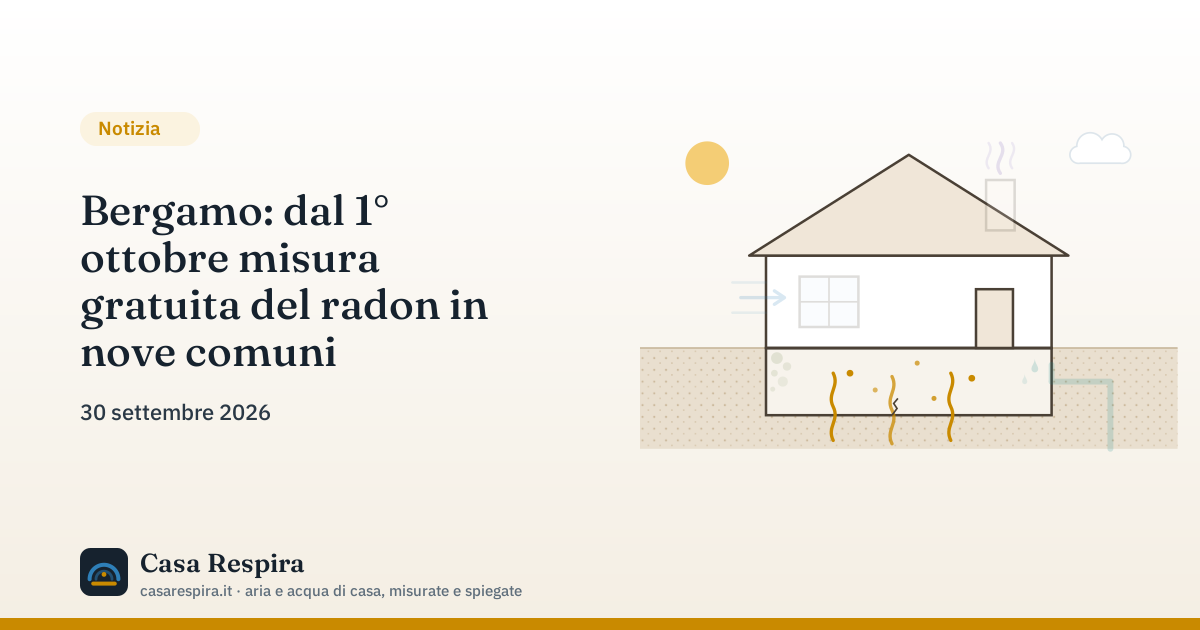
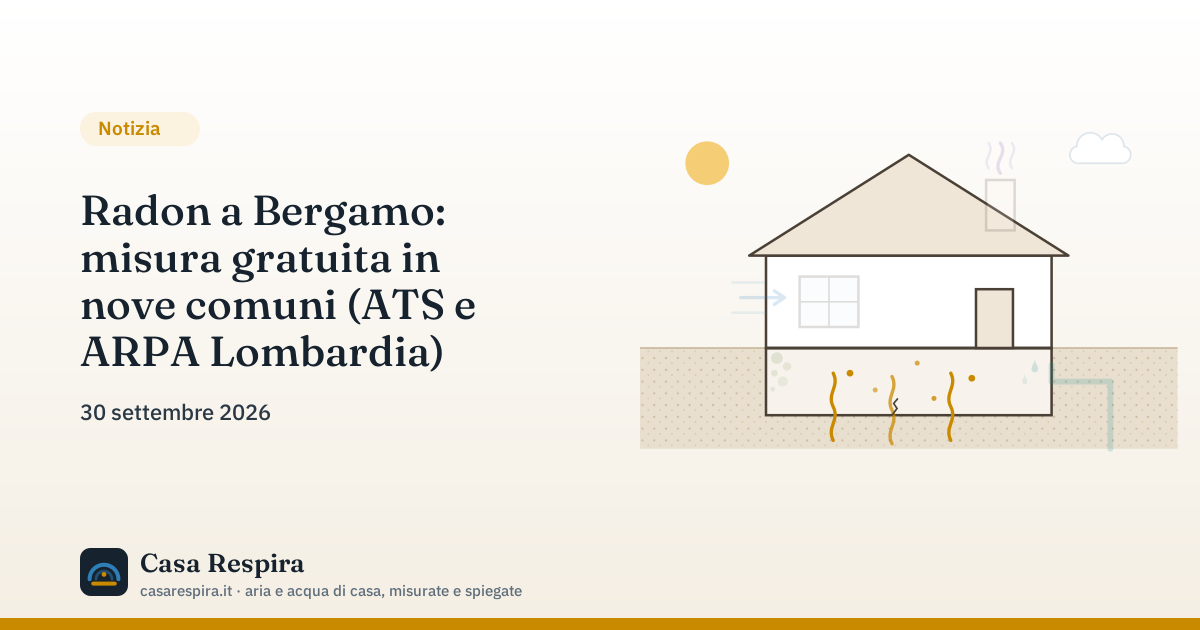
Titoli e descrizioni più brevi e mirati per le pagine con impressioni e zero clic
Claude-Session: https://claude.ai/code/session_01CHqPZx1XaQabLMaa3mBbNP

Changed region(s): [[0.0617, 0.3016, 0.4317, 0.6032]]

diff --git a/index.html b/index.html
@@ -105,7 +105,7 @@
 </section>
 <section class="wrap guide">
 <h2>Le guide sul radon</h2>
-<ul class="lista-guide"><li><a href="/radon/guida-completa/"><strong>Radon in casa: la guida completa</strong><span>Cos&#x27;è il radon, quali livelli di riferimento valgono in Italia, come si misura e come si riduce.</span></a></li><li><a href="/radon/come-si-misura/"><strong>Come si misura il radon in casa</strong><span>Perché serve una misura di lunga durata, come leggerla e cosa considerare nella scelta dello strumento.</span></a></li><li><a href="/radon/normativa/"><strong>Radon: cosa dice la legge per abitazioni e luoghi di lavoro</strong><span>Il D.Lgs. 101/2020, i livelli di riferimento, le aree prioritarie e gli obblighi per i luoghi di lavoro.</span></a></li><li><a href="/radon/lombardia/"><strong>Radon in Lombardia: aree prioritarie e misure</strong><span>Dove si concentra il rischio radon in Lombardia, come sono state individuate le aree prioritarie e cosa fare.</span></a></li><li><a href="/radon/vespaio-aerato/"><strong>Vespaio aerato: cos&#x27;è, come è fatto e perché protegge da radon e umidità</strong><span>Com&#x27;è fatto un vespaio aerato (igloo, soletta, bocchette, membrana), come funziona la ventilazione, cosa dicono ISPRA e le linee guida regionali sul radon, e quando non basta.</span></a></li><li><a href="/radon/rilevatori/"><strong>I migliori rilevatori di radon per la casa: confronto 2026 con prezzi</strong><span>Dosimetri passivi da laboratorio o rilevatori elettronici: Airthings Corentium Home 2, Wave Radon, RadonEye RD200 e kit CR-39 a confronto, con prezzi verificati a novembre 2026 e quale scegliere a seconda dell&#x27;uso.</span></a></li></ul>
+<ul class="lista-guide"><li><a href="/radon/guida-completa/"><strong>Radon in casa: la guida completa</strong><span>Cos&#x27;è il radon, quali livelli di riferimento valgono in Italia, come si misura e come si riduce.</span></a></li><li><a href="/radon/come-si-misura/"><strong>Come si misura il radon in casa</strong><span>Perché serve una misura di lunga durata, come leggerla e cosa considerare nella scelta dello strumento.</span></a></li><li><a href="/radon/normativa/"><strong>Radon, la legge italiana: D.Lgs. 101/2020 per casa e lavoro</strong><span>Livelli di riferimento, aree prioritarie e obblighi per abitazioni e luoghi di lavoro, con i riferimenti ufficiali (D.Lgs. 101/2020).</span></a></li><li><a href="/radon/lombardia/"><strong>Radon in Lombardia: aree prioritarie e misure</strong><span>Dove si concentra il rischio radon in Lombardia, come sono state individuate le aree prioritarie e cosa fare.</span></a></li><li><a href="/radon/vespaio-aerato/"><strong>Vespaio aerato: come è fatto e se protegge da radon</strong><span>Igloo, soletta, bocchette e membrana: come è fatto un vespaio aerato, come funziona contro radon e umidità, e quando non basta da solo.</span></a></li><li><a href="/radon/rilevatori/"><strong>I migliori rilevatori di radon per la casa: confronto 2026 con prezzi</strong><span>Dosimetri passivi da laboratorio o rilevatori elettronici: Airthings Corentium Home 2, Wave Radon, RadonEye RD200 e kit CR-39 a confronto, con prezzi verificati a novembre 2026 e quale scegliere a seconda dell&#x27;uso.</span></a></li></ul>
 </section>
 <section class="wrap temi">
 <h2>Gli altri temi</h2>
@@ -114,7 +114,7 @@
 </section>
 <section class="wrap ultime">
 <h2>Ultime notizie</h2>
-<ul class="lista-news compatta"><li><time datetime="2026-11-06">6 novembre 2026</time><a href="/news/pfas-liguria-borgio-verezzi-novembre-2026/">PFAS nell&#x27;acqua in Liguria: a Borgio Verezzi e Pietra Ligure si lavora ai filtri a carboni attivi</a></li><li><time datetime="2026-09-30">30 settembre 2026</time><a href="/news/bergamo-campagna-radon-ottobre-2026/">Bergamo: dal 1° ottobre misura gratuita del radon in nove comuni</a></li><li><time datetime="2026-07-22">22 luglio 2026</time><a href="/news/aree-prioritarie-italia-luglio-2026/">Aree prioritarie radon: a luglio 2026 il punto Regione per Regione</a></li></ul>
+<ul class="lista-news compatta"><li><time datetime="2026-11-06">6 novembre 2026</time><a href="/news/pfas-liguria-borgio-verezzi-novembre-2026/">PFAS in Liguria: filtri a carboni attivi a Borgio Verezzi e Pietra Ligure</a></li><li><time datetime="2026-09-30">30 settembre 2026</time><a href="/news/bergamo-campagna-radon-ottobre-2026/">Radon a Bergamo: misura gratuita in nove comuni (ATS e ARPA Lombardia)</a></li><li><time datetime="2026-07-22">22 luglio 2026</time><a href="/news/aree-prioritarie-italia-luglio-2026/">Aree prioritarie radon: a luglio 2026 il punto Regione per Regione</a></li></ul>
 <p><a href="/news/">Tutte le notizie</a></p>
 </section>
 <section class="wrap metodo">

diff --git a/news/index.html b/news/index.html
@@ -35,7 +35,7 @@
 <article class="testo sezione">
 <h1>News</h1>
 <p class="lead">Notizie brevi su radon, aria e acqua di casa: campagne di misura gratuite, nuove aree prioritarie, norme. Ogni notizia ha la fonte istituzionale con link e data, e dice cosa cambia per chi legge.</p>
-<ul class="lista-news"><li><time datetime="2026-11-06">6 novembre 2026</time><a href="/news/pfas-liguria-borgio-verezzi-novembre-2026/">PFAS nell&#x27;acqua in Liguria: a Borgio Verezzi e Pietra Ligure si lavora ai filtri a carboni attivi</a><p>Chi vive nei due Comuni deve seguire le ordinanze comunali e le comunicazioni del gestore sull&#x27;uso dell&#x27;acqua. Per tutti gli altri, il caso mostra come funziona la nuova norma: dal 2026 i PFAS sono un parametro di legge e, se superano il limite, il gestore deve intervenire. Cosa sono e come leggere i dati del proprio comune è spiegato nella guida ai PFAS nell&#x27;acqua.</p></li><li><time datetime="2026-09-30">30 settembre 2026</time><a href="/news/bergamo-campagna-radon-ottobre-2026/">Bergamo: dal 1° ottobre misura gratuita del radon in nove comuni</a><p>Se abiti in uno dei comuni coinvolti, è l&#x27;occasione per una misura di qualità senza spesa. L&#x27;elenco dei comuni e il modulo di adesione sono sul sito di ATS Bergamo.</p></li><li><time datetime="2026-07-22">22 luglio 2026</time><a href="/news/aree-prioritarie-italia-luglio-2026/">Aree prioritarie radon: a luglio 2026 il punto Regione per Regione</a><p>Essere in area prioritaria non significa che ogni casa superi i 300 Bq/m³, e fuori da quelle aree il radon può comunque essere alto. Per i datori di lavoro con locali al piano terra, in area prioritaria scatta l&#x27;obbligo di misura.</p></li><li><time datetime="2026-05-15">15 maggio 2026</time><a href="/news/trentino-misure-gratuite-maggio-2026/">Trentino: approvate le aree prioritarie e aperta la misura gratuita per tutti i cittadini</a><p>Chi vive in Trentino può candidarsi con un modulo online sul sito di APPA. Il ritiro e la riconsegna dei dosimetri, a Trento, sono a carico del cittadino.</p></li></ul>
+<ul class="lista-news"><li><time datetime="2026-11-06">6 novembre 2026</time><a href="/news/pfas-liguria-borgio-verezzi-novembre-2026/">PFAS in Liguria: filtri a carboni attivi a Borgio Verezzi e Pietra Ligure</a><p>Chi vive nei due Comuni deve seguire le ordinanze comunali e le comunicazioni del gestore sull&#x27;uso dell&#x27;acqua. Per tutti gli altri, il caso mostra come funziona la nuova norma: dal 2026 i PFAS sono un parametro di legge e, se superano il limite, il gestore deve intervenire. Cosa sono e come leggere i dati del proprio comune è spiegato nella guida ai PFAS nell&#x27;acqua.</p></li><li><time datetime="2026-09-30">30 settembre 2026</time><a href="/news/bergamo-campagna-radon-ottobre-2026/">Radon a Bergamo: misura gratuita in nove comuni (ATS e ARPA Lombardia)</a><p>Se abiti in uno dei comuni coinvolti, è l&#x27;occasione per una misura di qualità senza spesa. L&#x27;elenco dei comuni e il modulo di adesione sono sul sito di ATS Bergamo.</p></li><li><time datetime="2026-07-22">22 luglio 2026</time><a href="/news/aree-prioritarie-italia-luglio-2026/">Aree prioritarie radon: a luglio 2026 il punto Regione per Regione</a><p>Essere in area prioritaria non significa che ogni casa superi i 300 Bq/m³, e fuori da quelle aree il radon può comunque essere alto. Per i datori di lavoro con locali al piano terra, in area prioritaria scatta l&#x27;obbligo di misura.</p></li><li><time datetime="2026-05-15">15 maggio 2026</time><a href="/news/trentino-misure-gratuite-maggio-2026/">Trentino: approvate le aree prioritarie e aperta la misura gratuita per tutti i cittadini</a><p>Chi vive in Trentino può candidarsi con un modulo online sul sito di APPA. Il ritiro e la riconsegna dei dosimetri, a Trento, sono a carico del cittadino.</p></li></ul>
 <p class="nota">Le notizie escono anche nel <a href="/feed.xml">feed RSS</a>.</p>
 </article>
 </main>

diff --git a/radon/normativa/index.html b/radon/normativa/index.html
@@ -9,15 +9,15 @@
 <link rel="stylesheet" href="/assets/site-f2919fca.css">
 <link rel="icon" href="/assets/favicon.svg" type="image/svg+xml">
 <link rel="apple-touch-icon" href="/assets/logo-192.png">
-<title>Radon: cosa dice la legge per abitazioni e luoghi di lavoro | Casa Respira</title>
-<meta name="description" content="Il D.Lgs. 101/2020, i livelli di riferimento, le aree prioritarie e gli obblighi per i luoghi di lavoro.">
+<title>Radon, la legge italiana: D.Lgs. 101/2020 per casa e lavoro | Casa Respira</title>
+<meta name="description" content="Livelli di riferimento, aree prioritarie e obblighi per abitazioni e luoghi di lavoro, con i riferimenti ufficiali (D.Lgs. 101/2020).">
 <link rel="canonical" href="https://casarespira.it/radon/normativa/">
 <link rel="alternate" hreflang="en" href="https://casarespira.it/en/property-due-diligence/">
 <link rel="alternate" hreflang="it" href="https://casarespira.it/radon/normativa/">
 <meta property="og:type" content="website">
 <meta property="og:site_name" content="Casa Respira">
-<meta property="og:title" content="Radon: cosa dice la legge per abitazioni e luoghi di lavoro">
-<meta property="og:description" content="Il D.Lgs. 101/2020, i livelli di riferimento, le aree prioritarie e gli obblighi per i luoghi di lavoro.">
+<meta property="og:title" content="Radon, la legge italiana: D.Lgs. 101/2020 per casa e lavoro">
+<meta property="og:description" content="Livelli di riferimento, aree prioritarie e obblighi per abitazioni e luoghi di lavoro, con i riferimenti ufficiali (D.Lgs. 101/2020).">
 <meta property="og:url" content="https://casarespira.it/radon/normativa/">
 <meta property="og:image" content="https://casarespira.it/assets/og/radon-normativa.png">
 <meta property="og:image:width" content="1200">
@@ -36,7 +36,7 @@
 <main class="wrap pagina pagina-guida">
 <article class="testo">
 <p class="verifica">Fonti verificate il 6 novembre 2026</p>
-<h1>Radon: cosa dice la legge per abitazioni e luoghi di lavoro</h1>
+<h1>Radon, la legge italiana: D.Lgs. 101/2020 per casa e lavoro</h1>
 <div class="breve"><p class="breve-t">In breve</p><ul><li>D.Lgs. 101/2020, art. 12: 300 Bq/m³ per case esistenti e luoghi di lavoro, 200 per case costruite dal 2025.</li><li>Art. 11: le Regioni individuano le aree prioritarie, dove il 15% degli edifici supera i 300.</li><li>Per i privati non c&#x27;è obbligo di misura; per i datori di lavoro sì, con misure correttive sopra i 300.</li></ul></div>
 <figure class="scala-box"><svg class="scala" viewBox="0 0 720 118" role="img" aria-label="Scala del radon da 0 a 400 becquerel per metro cubo con i livelli di riferimento 100, 200 e 300"><line x1="24" y1="58" x2="528.0" y2="58" class="sc-base"/><line x1="528.0" y1="58" x2="696" y2="58" class="sc-over"/><line x1="24.0" y1="52" x2="24.0" y2="64" class="sc-tick"/><text x="24.0" y="84" class="sc-num" text-anchor="middle">0</text><line x1="696.0" y1="52" x2="696.0" y2="64" class="sc-tick"/><text x="696.0" y="84" class="sc-num" text-anchor="middle">400</text><circle cx="192.0" cy="58" r="7" class="sc-mark"/><text x="192.0" y="84" class="sc-num sc-num-b" text-anchor="middle">100</text><text x="192.0" y="40" class="sc-lab" text-anchor="middle">OMS: livello consigliato</text><circle cx="360.0" cy="58" r="7" class="sc-mark"/><text x="360.0" y="84" class="sc-num sc-num-b" text-anchor="middle">200</text><text x="360.0" y="40" class="sc-lab" text-anchor="middle">Case costruite dal 2025</text><circle cx="528.0" cy="58" r="7" class="sc-mark sc-mark-over"/><text x="528.0" y="84" class="sc-num sc-num-b" text-anchor="middle">300</text><text x="528.0" y="40" class="sc-lab" text-anchor="middle">Case esistenti e luoghi di lavoro</text><text x="696" y="106" class="sc-unit" text-anchor="end">Bq/m³, media annua</text></svg><figcaption>Livelli di riferimento del D.Lgs. 101/2020 e raccomandazione OMS. Oltre il livello della tua casa, si interviene.</figcaption></figure>
 

diff --git a/radon/index.html b/radon/index.html
@@ -91,7 +91,7 @@
 </g>
 </svg></figure></div>
 
-<h2>Le guide pubblicate</h2><ul class="lista-guide"><li><a href="/radon/guida-completa/"><strong>Radon in casa: la guida completa</strong><span>Cos&#x27;è il radon, quali livelli di riferimento valgono in Italia, come si misura e come si riduce.</span></a></li><li><a href="/radon/come-si-misura/"><strong>Come si misura il radon in casa</strong><span>Perché serve una misura di lunga durata, come leggerla e cosa considerare nella scelta dello strumento.</span></a></li><li><a href="/radon/normativa/"><strong>Radon: cosa dice la legge per abitazioni e luoghi di lavoro</strong><span>Il D.Lgs. 101/2020, i livelli di riferimento, le aree prioritarie e gli obblighi per i luoghi di lavoro.</span></a></li><li><a href="/radon/lombardia/"><strong>Radon in Lombardia: aree prioritarie e misure</strong><span>Dove si concentra il rischio radon in Lombardia, come sono state individuate le aree prioritarie e cosa fare.</span></a></li><li><a href="/radon/vespaio-aerato/"><strong>Vespaio aerato: cos&#x27;è, come è fatto e perché protegge da radon e umidità</strong><span>Com&#x27;è fatto un vespaio aerato (igloo, soletta, bocchette, membrana), come funziona la ventilazione, cosa dicono ISPRA e le linee guida regionali sul radon, e quando non basta.</span></a></li><li><a href="/radon/rilevatori/"><strong>I migliori rilevatori di radon per la casa: confronto 2026 con prezzi</strong><span>Dosimetri passivi da laboratorio o rilevatori elettronici: Airthings Corentium Home 2, Wave Radon, RadonEye RD200 e kit CR-39 a confronto, con prezzi verificati a novembre 2026 e quale scegliere a seconda dell&#x27;uso.</span></a></li></ul>
+<h2>Le guide pubblicate</h2><ul class="lista-guide"><li><a href="/radon/guida-completa/"><strong>Radon in casa: la guida completa</strong><span>Cos&#x27;è il radon, quali livelli di riferimento valgono in Italia, come si misura e come si riduce.</span></a></li><li><a href="/radon/come-si-misura/"><strong>Come si misura il radon in casa</strong><span>Perché serve una misura di lunga durata, come leggerla e cosa considerare nella scelta dello strumento.</span></a></li><li><a href="/radon/normativa/"><strong>Radon, la legge italiana: D.Lgs. 101/2020 per casa e lavoro</strong><span>Livelli di riferimento, aree prioritarie e obblighi per abitazioni e luoghi di lavoro, con i riferimenti ufficiali (D.Lgs. 101/2020).</span></a></li><li><a href="/radon/lombardia/"><strong>Radon in Lombardia: aree prioritarie e misure</strong><span>Dove si concentra il rischio radon in Lombardia, come sono state individuate le aree prioritarie e cosa fare.</span></a></li><li><a href="/radon/vespaio-aerato/"><strong>Vespaio aerato: come è fatto e se protegge da radon</strong><span>Igloo, soletta, bocchette e membrana: come è fatto un vespaio aerato, come funziona contro radon e umidità, e quando non basta da solo.</span></a></li><li><a href="/radon/rilevatori/"><strong>I migliori rilevatori di radon per la casa: confronto 2026 con prezzi</strong><span>Dosimetri passivi da laboratorio o rilevatori elettronici: Airthings Corentium Home 2, Wave Radon, RadonEye RD200 e kit CR-39 a confronto, con prezzi verificati a novembre 2026 e quale scegliere a seconda dell&#x27;uso.</span></a></li></ul>
 <h2>In preparazione</h2><ul class="previste"><li>Radon alto: come si risana una casa e quanto costa</li><li>Radon in Piemonte, Veneto, Lazio e nelle altre regioni</li></ul>
 <p class="nota">Per ricevere le nuove guide: <a href="/feed.xml">feed RSS</a>.</p>
 </article>

diff --git a/radon/vespaio-aerato/index.html b/radon/vespaio-aerato/index.html
@@ -9,13 +9,13 @@
 <link rel="stylesheet" href="/assets/site-f2919fca.css">
 <link rel="icon" href="/assets/favicon.svg" type="image/svg+xml">
 <link rel="apple-touch-icon" href="/assets/logo-192.png">
-<title>Vespaio aerato: cos&#x27;è, come è fatto e perché protegge da radon e umidità | Casa Respira</title>
-<meta name="description" content="Com&#x27;è fatto un vespaio aerato (igloo, soletta, bocchette, membrana), come funziona la ventilazione, cosa dicono ISPRA e le linee guida regionali sul radon, e quando non basta.">
+<title>Vespaio aerato: come è fatto e se protegge da radon | Casa Respira</title>
+<meta name="description" content="Igloo, soletta, bocchette e membrana: come è fatto un vespaio aerato, come funziona contro radon e umidità, e quando non basta da solo.">
 <link rel="canonical" href="https://casarespira.it/radon/vespaio-aerato/">
 <meta property="og:type" content="website">
 <meta property="og:site_name" content="Casa Respira">
-<meta property="og:title" content="Vespaio aerato: cos&#x27;è, come è fatto e perché protegge da radon e umidità">
-<meta property="og:description" content="Com&#x27;è fatto un vespaio aerato (igloo, soletta, bocchette, membrana), come funziona la ventilazione, cosa dicono ISPRA e le linee guida regionali sul radon, e quando non basta.">
+<meta property="og:title" content="Vespaio aerato: come è fatto e se protegge da radon">
+<meta property="og:description" content="Igloo, soletta, bocchette e membrana: come è fatto un vespaio aerato, come funziona contro radon e umidità, e quando non basta da solo.">
 <meta property="og:url" content="https://casarespira.it/radon/vespaio-aerato/">
 <meta property="og:image" content="https://casarespira.it/assets/og/radon-vespaio-aerato.png">
 <meta property="og:image:width" content="1200">
@@ -34,7 +34,7 @@
 <main class="wrap pagina pagina-guida">
 <article class="testo">
 <p class="verifica">Fonti verificate il 6 novembre 2026</p>
-<h1>Vespaio aerato: cos&#x27;è, come è fatto e perché protegge da radon e umidità</h1>
+<h1>Vespaio aerato: come è fatto e se protegge da radon</h1>
 <div class="breve"><p class="breve-t">In breve</p><ul><li>Il vespaio aerato è una camera d&#x27;aria tra terreno e pavimento, collegata all&#x27;esterno: stacca la casa dal suolo umido e porta fuori il radon prima che entri.</li><li>Oggi si fa con casseri a cupola (igloo), soletta armata, membrana antiradon e bocchette su lati opposti a quote diverse.</li><li>ISPRA e le linee guida regionali lo raccomandano per le nuove case, insieme a un pozzetto predisposto per un eventuale ventilatore.</li></ul></div>
 
 

diff --git a/news/pfas-liguria-borgio-verezzi-novembre-2026/index.html b/news/pfas-liguria-borgio-verezzi-novembre-2026/index.html
@@ -9,12 +9,12 @@
 <link rel="stylesheet" href="/assets/site-f2919fca.css">
 <link rel="icon" href="/assets/favicon.svg" type="image/svg+xml">
 <link rel="apple-touch-icon" href="/assets/logo-192.png">
-<title>PFAS nell&#x27;acqua in Liguria: a Borgio Verezzi e Pietra Ligure si lavora ai filtri a carboni attivi | Casa Respira</title>
+<title>PFAS in Liguria: filtri a carboni attivi a Borgio Verezzi e Pietra Ligure | Casa Respira</title>
 <meta name="description" content="Il gestore Servizi Ambientali ha confermato il 4 novembre la priorità degli interventi di filtrazione a carboni attivi per ripristinare la potabilità ">
 <link rel="canonical" href="https://casarespira.it/news/pfas-liguria-borgio-verezzi-novembre-2026/">
 <meta property="og:type" content="website">
 <meta property="og:site_name" content="Casa Respira">
-<meta property="og:title" content="PFAS nell&#x27;acqua in Liguria: a Borgio Verezzi e Pietra Ligure si lavora ai filtri a carboni attivi">
+<meta property="og:title" content="PFAS in Liguria: filtri a carboni attivi a Borgio Verezzi e Pietra Ligure">
 <meta property="og:description" content="Il gestore Servizi Ambientali ha confermato il 4 novembre la priorità degli interventi di filtrazione a carboni attivi per ripristinare la potabilità ">
 <meta property="og:url" content="https://casarespira.it/news/pfas-liguria-borgio-verezzi-novembre-2026/">
 <meta property="og:image" content="https://casarespira.it/assets/og/news-pfas-liguria-borgio-verezzi-novembre-2026.png">
@@ -34,7 +34,7 @@
 <main class="wrap pagina">
 <article class="testo news-item">
 <p class="verifica"><time datetime="2026-11-06">6 novembre 2026</time> · Notizia</p>
-<h1>PFAS nell&#x27;acqua in Liguria: a Borgio Verezzi e Pietra Ligure si lavora ai filtri a carboni attivi</h1>
+<h1>PFAS in Liguria: filtri a carboni attivi a Borgio Verezzi e Pietra Ligure</h1>
 <h2>Cosa è successo</h2>
 <p>Il gestore Servizi Ambientali ha confermato il 4 novembre la priorità degli interventi di filtrazione a carboni attivi per ripristinare la potabilità dell&#x27;acqua nei Comuni di Borgio Verezzi e Pietra Ligure (Savona), dove sono stati trovati PFAS oltre i limiti. La Regione Liguria ha istituito una cabina di regia e la Procura di Savona ha aperto un fascicolo.</p>
 <h2>Cosa cambia per te</h2>

diff --git a/news/bergamo-campagna-radon-ottobre-2026/index.html b/news/bergamo-campagna-radon-ottobre-2026/index.html
@@ -9,12 +9,12 @@
 <link rel="stylesheet" href="/assets/site-f2919fca.css">
 <link rel="icon" href="/assets/favicon.svg" type="image/svg+xml">
 <link rel="apple-touch-icon" href="/assets/logo-192.png">
-<title>Bergamo: dal 1° ottobre misura gratuita del radon in nove comuni | Casa Respira</title>
+<title>Radon a Bergamo: misura gratuita in nove comuni (ATS e ARPA Lombardia) | Casa Respira</title>
 <meta name="description" content="ATS Bergamo, con ARPA Lombardia, ha avviato dal 1° ottobre 2026 una campagna gratuita di misura del radon nelle abitazioni di nove comuni della provin">
 <link rel="canonical" href="https://casarespira.it/news/bergamo-campagna-radon-ottobre-2026/">
 <meta property="og:type" content="website">
 <meta property="og:site_name" content="Casa Respira">
-<meta property="og:title" content="Bergamo: dal 1° ottobre misura gratuita del radon in nove comuni">
+<meta property="og:title" content="Radon a Bergamo: misura gratuita in nove comuni (ATS e ARPA Lombardia)">
 <meta property="og:description" content="ATS Bergamo, con ARPA Lombardia, ha avviato dal 1° ottobre 2026 una campagna gratuita di misura del radon nelle abitazioni di nove comuni della provin">
 <meta property="og:url" content="https://casarespira.it/news/bergamo-campagna-radon-ottobre-2026/">
 <meta property="og:image" content="https://casarespira.it/assets/og/news-bergamo-campagna-radon-ottobre-2026.png">
@@ -34,7 +34,7 @@
 <main class="wrap pagina">
 <article class="testo news-item">
 <p class="verifica"><time datetime="2026-09-30">30 settembre 2026</time> · Notizia</p>
-<h1>Bergamo: dal 1° ottobre misura gratuita del radon in nove comuni</h1>
+<h1>Radon a Bergamo: misura gratuita in nove comuni (ATS e ARPA Lombardia)</h1>
 <h2>Cosa è successo</h2>
 <p>ATS Bergamo, con ARPA Lombardia, ha avviato dal 1° ottobre 2026 una campagna gratuita di misura del radon nelle abitazioni di nove comuni della provincia. Ai cittadini che aderiscono viene consegnato un dosimetro passivo da posizionare in casa; la prima misura dura circa sei mesi e al termine ogni partecipante riceve il risultato della propria abitazione.</p>
 <h2>Cosa cambia per te</h2>

diff --git a/_build/build.py b/_build/build.py
@@ -296,8 +296,8 @@ add("/radon/come-si-misura/", "Come si misura il radon in casa",
            "Si misura nel locale abitato più basso, vivendo la casa come sempre."],
     chiave=("12", "mesi", "durata di riferimento della misura, per ottenere una media annua"))
 
-add("/radon/normativa/", "Radon: cosa dice la legge per abitazioni e luoghi di lavoro",
-    "Il D.Lgs. 101/2020, i livelli di riferimento, le aree prioritarie e gli obblighi per i luoghi di lavoro.",
+add("/radon/normativa/", "Radon, la legge italiana: D.Lgs. 101/2020 per casa e lavoro",
+    "Livelli di riferimento, aree prioritarie e obblighi per abitazioni e luoghi di lavoro, con i riferimenti ufficiali (D.Lgs. 101/2020).",
     """
 <p>Il radon è regolato dal D.Lgs. 101/2020, che ha recepito la direttiva Euratom 2013/59. Il decreto è stato modificato dal D.Lgs. 203/2022. Questa pagina riassume cosa dice, articolo per articolo.</p>
 <h2>I livelli di riferimento</h2>
@@ -376,8 +376,8 @@ VESPAIO_SVG = """<figure class="schema"><svg viewBox="0 0 760 360" role="img" ar
 <g stroke="#16222E" stroke-width="1.2" fill="none"><path d="M732 182 H660"/><path d="M732 150 H690 V172 H626"/><path d="M732 118 H676 V160 H626"/></g>
 </svg><figcaption><strong>1</strong> terreno e magrone · <strong>2</strong> casseri a cupola (igloo): la camera d'aria continua · <strong>3</strong> soletta in calcestruzzo armato · <strong>4</strong> membrana antiradon, risvoltata sui muri · <strong>5</strong> massetto e pavimento · <strong>6</strong> bocchette su lati opposti, a quote diverse. L'aria entra dal lato freddo, attraversa la camera ed esce dal lato caldo portando con sé umidità e radon.</figcaption></figure>"""
 
-add("/radon/vespaio-aerato/", "Vespaio aerato: cos'è, come è fatto e perché protegge da radon e umidità",
-    "Com'è fatto un vespaio aerato (igloo, soletta, bocchette, membrana), come funziona la ventilazione, cosa dicono ISPRA e le linee guida regionali sul radon, e quando non basta.",
+add("/radon/vespaio-aerato/", "Vespaio aerato: come è fatto e se protegge da radon",
+    "Igloo, soletta, bocchette e membrana: come è fatto un vespaio aerato, come funziona contro radon e umidità, e quando non basta da solo.",
     """
 <p>Chi costruisce o ristruttura un piano terra si sente dire che "ci vuole il vespaio aerato". È la soluzione che le linee guida sul radon raccomandano per le nuove costruzioni, ed è anche la difesa classica contro l'umidità di risalita. Questa guida spiega com'è fatto, come funziona e quando da solo non basta.</p>
 <h2>Cos'è un vespaio</h2>
@@ -884,13 +884,13 @@ add("/bozze/risanamento/", "BOZZA: radon alto, come si risana una casa e quanto 
 # (slug, data ISO, data leggibile, titolo, cosa è successo, cosa cambia per chi legge, [(etichetta fonte, url)])
 NEWS = [
     ("pfas-liguria-borgio-verezzi-novembre-2026", "2026-11-06", "6 novembre 2026",
-     "PFAS nell'acqua in Liguria: a Borgio Verezzi e Pietra Ligure si lavora ai filtri a carboni attivi",
+     "PFAS in Liguria: filtri a carboni attivi a Borgio Verezzi e Pietra Ligure",
      "Il gestore Servizi Ambientali ha confermato il 4 novembre la priorità degli interventi di filtrazione a carboni attivi per ripristinare la potabilità dell'acqua nei Comuni di Borgio Verezzi e Pietra Ligure (Savona), dove sono stati trovati PFAS oltre i limiti. La Regione Liguria ha istituito una cabina di regia e la Procura di Savona ha aperto un fascicolo.",
      "Chi vive nei due Comuni deve seguire le ordinanze comunali e le comunicazioni del gestore sull'uso dell'acqua. Per tutti gli altri, il caso mostra come funziona la nuova norma: dal 2026 i PFAS sono un parametro di legge e, se superano il limite, il gestore deve intervenire. Cosa sono e come leggere i dati del proprio comune è spiegato nella guida ai PFAS nell'acqua.",
      [("Savonanews, PFAS nell'acqua, Servizi Ambientali accelera sugli interventi (6 novembre 2026)", "https://www.savonanews.it/2026/11/06/leggi-notizia/argomenti/attualit/articolo/pfas-nellacqua-servizi-ambientali-accelera-sugli-interventi-necessario-il-sostegno-economico-di.html"),
       ("Casa Respira, PFAS nell'acqua del rubinetto: cosa sono e cosa dice la legge", "https://casarespira.it/acqua/pfas/")]),
     ("bergamo-campagna-radon-ottobre-2026", "2026-09-30", "30 settembre 2026",
-     "Bergamo: dal 1° ottobre misura gratuita del radon in nove comuni",
+     "Radon a Bergamo: misura gratuita in nove comuni (ATS e ARPA Lombardia)",
      "ATS Bergamo, con ARPA Lombardia, ha avviato dal 1° ottobre 2026 una campagna gratuita di misura del radon nelle abitazioni di nove comuni della provincia. Ai cittadini che aderiscono viene consegnato un dosimetro passivo da posizionare in casa; la prima misura dura circa sei mesi e al termine ogni partecipante riceve il risultato della propria abitazione.",
      "Se abiti in uno dei comuni coinvolti, è l'occasione per una misura di qualità senza spesa. L'elenco dei comuni e il modulo di adesione sono sul sito di ATS Bergamo.",
      [("ATS Bergamo, comunicato del 30 settembre 2026", "https://www.ats-bg.it/news/radon-nelle-abitazioni-ats-bergamo-avvia-una-nuova-campagna-citizen-science-alcuni-comuni-bergamasachi")]),
